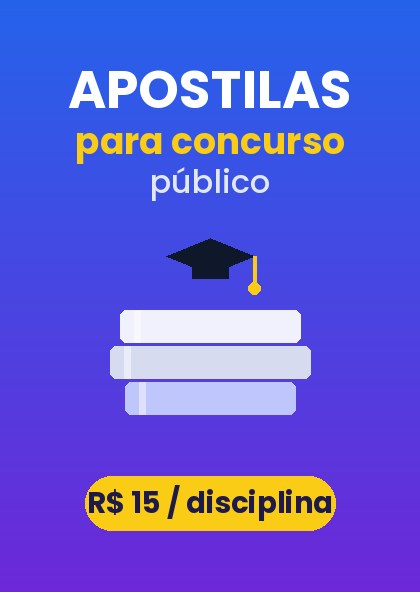
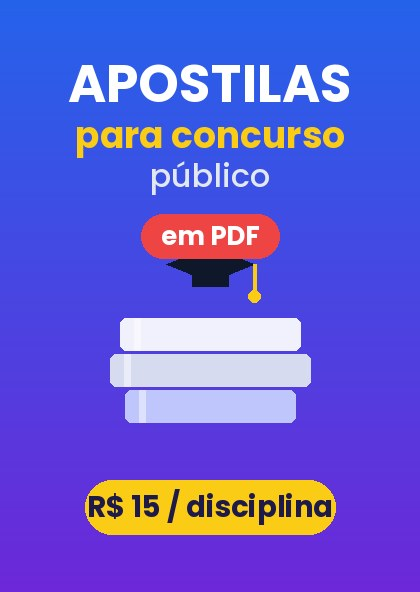
Add files via upload

diff --git a/index.html b/index.html
@@ -1129,20 +1129,6 @@
         <section class="sec sec-livros" id="livros">
         <div class="section-title">Livros & Apostilas</div>
 
-        <!-- Apostila personalizada (venda direta pelo WhatsApp) -->
-        <div class="card-container destaque-apostila">
-            <img src="capa-apostila-personalizada.jpg" alt="Apostilas personalizadas por disciplina" class="card-thumb" onclick="openModal(this.src)">
-            <div class="card-info">
-                <h3>Apostilas para Concurso Público</h3>
-                <p>Material de estudo personalizado para <strong>concurso público</strong>, feito sob medida para a sua banca: macetes, o que mais cai, pegadinhas e exercícios de fixação. <strong>R$ 15,00 por disciplina</strong>.</p>
-                <div class="card-buttons">
-                    <button type="button" class="card-btn apostila" onclick="abrirApostila()">
-                        <i class="fa-solid fa-file-pen"></i> Montar meu pedido
-                    </button>
-                </div>
-            </div>
-        </div>
-
         <!-- Livro 1 -->
         <div class="card-container">
             <img src="capa-tecnologia-sem-segredo.jpg" alt="Capa Livro Tecnologia Sem Segredo" class="card-thumb" onclick="openModal(this.src)">
@@ -1273,6 +1259,20 @@
         <section class="sec sec-servicos" id="servicos">
         <div class="section-title">Serviços & Suporte</div>
 
+        <!-- Apostila personalizada (venda direta pelo WhatsApp) -->
+        <div class="card-container destaque-apostila">
+            <img src="capa-apostila-personalizada.jpg" alt="Apostilas em PDF para concurso público" class="card-thumb" onclick="openModal(this.src)">
+            <div class="card-info">
+                <h3>Apostilas para Concurso Público</h3>
+                <p>Material de estudo <strong>em PDF</strong>, personalizado para <strong>concurso público</strong> e feito sob medida para a sua banca: macetes, o que mais cai, pegadinhas e exercícios de fixação. <strong>R$ 15,00 por disciplina</strong>.</p>
+                <div class="card-buttons">
+                    <button type="button" class="card-btn apostila" onclick="abrirApostila()">
+                        <i class="fa-solid fa-file-pen"></i> Montar meu pedido
+                    </button>
+                </div>
+            </div>
+        </div>
+
         <div class="card-container">
             <img src="capa-professores.jpg" alt="Apoio ao professor: provas, apostilas e materiais" class="card-thumb" onclick="openModal(this.src)">
             <div class="card-info">
@@ -1398,7 +1398,7 @@
         <div class="about-content-box">
             <button class="close-modal-btn" onclick="fecharApostila()">&times;</button>
             <h2><i class="fa-solid fa-file-pen"></i> Pedido de Apostila para Concurso</h2>
-            <p style="font-size:0.88rem;">Apostilas de estudo para <strong>concurso público</strong>, feitas sob medida para a sua banca, com macetes, o que mais cai, pegadinhas e exercícios de fixação. <strong>R$ 15,00 por disciplina.</strong></p>
+            <p style="font-size:0.88rem;">Apostilas de estudo <strong>em PDF</strong> para <strong>concurso público</strong>, feitas sob medida para a sua banca, com macetes, o que mais cai, pegadinhas e exercícios de fixação. <strong>R$ 15,00 por disciplina.</strong></p>
 
             <div class="form-field">
                 <label for="apNome">Nome completo *</label>
